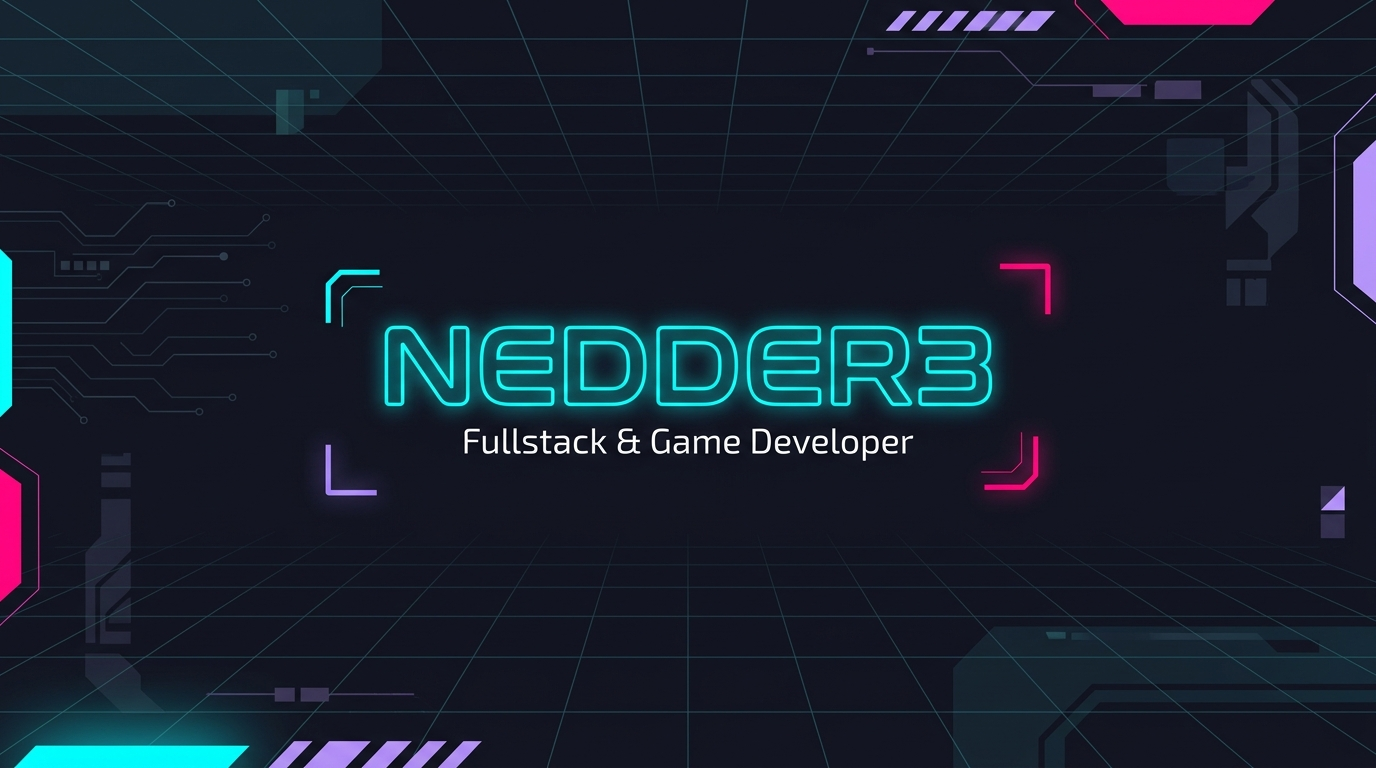
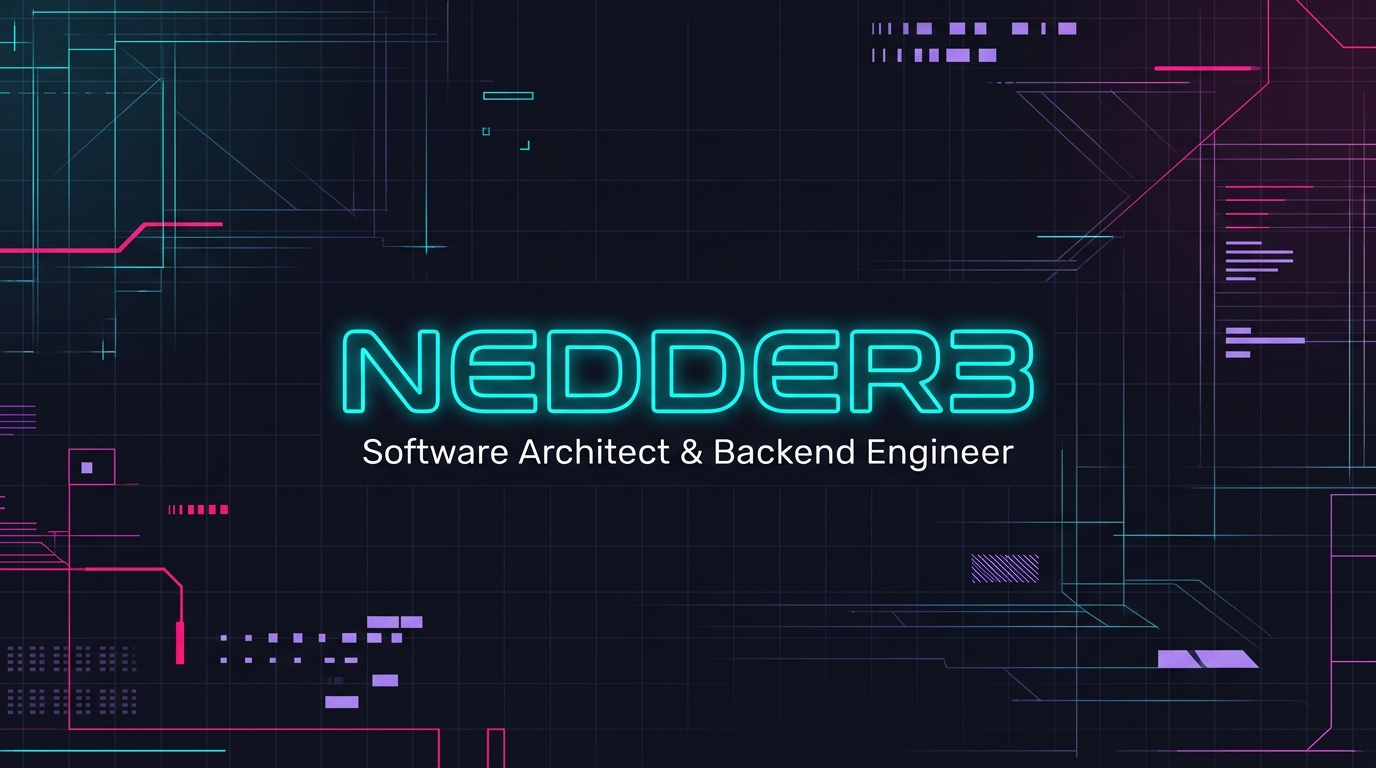
feat: re-brand profile to Software Architect & Java Expert theme

diff --git a/README.md b/README.md
@@ -3,60 +3,58 @@
   <img src="./banner.jpg" width="100%" alt="Nedder3 Header" />
 </div>
 
-<!-- Mensaje de bienvenida cyberpunk -->
+<!-- Mensaje de presentación de Arquitecto -->
 <div align="center">
-  <h2>🌌 Bienvenido a mi nexo digital en la red virtual</h2>
-  <p><i>"Traduzco lógica en experiencias interactivas, mecánicas inmersivas y código limpio."</i></p>
+  <h2>🏛 Software Architect & Backend Engineer</h2>
+  <p><i>"Don't show twenty apps. Show a few, designed impeccably."</i></p>
 </div>
 
 ---
 
-### 👤 Sobre Mí
+### 👤 Perfil Profesional
 
-Soy un desarrollador de software y diseñador de videojuegos apasionado por conectar sistemas lógicos robustos con experiencias visuales interactivas. Me especializo en arquitecturas de backend eficientes, aplicaciones móviles híbridas y el desarrollo de mecánicas de juego en 2D y 3D.
+Software Expert especializado en **Java** con experiencia como **Software Architect** y **Backend Engineer**, enfocado en el diseño y desarrollo de sistemas escalables, arquitecturas modernas y soluciones de alta calidad. Apasionado por la ingeniería de software, el diseño arquitectónico, las buenas prácticas y el aprendizaje continuo. 
 
-*   🚀 **Proyectos Actuales:** Desarrollando **Nu-sik** (Discord Rich Presence local para YouTube Music en Windows) y expandiendo aplicaciones híbridas con Expo.
-*   🧠 **Enfoque Actual:** Profundizando en microservicios, arquitecturas orientadas a eventos y optimización de bases de datos.
-*   🎮 **Desarrollo de Videojuegos:** Diseñando físicas e interfaces para títulos independientes en **Unity3D** y **Godot Engine**.
-*   💬 **Hablemos sobre:** Ingeniería de software, desarrollo fullstack, robótica/IoT y game design.
-*   ✉ **Contacto:** Escríbeme directamente a [neddev3@gmail.com](mailto:neddev3@gmail.com) para colaboraciones u oportunidades profesionales.
+Combino la construcción de software con la mentoría y la formación técnica, ayudando a desarrollar equipos y profesionales mientras creo soluciones mantenibles, robustas y orientadas al largo plazo.
 
 ---
 
-### 🛠 Stack Tecnológico
+### 🏗 Pilares de Diseño & Arquitectura
 
-Aquí se listan las tecnologías y herramientas que domino, clasificadas y con sus colores corporativos exactos:
+*   🧱 **Clean Architecture & DDD (Domain-Driven Design):** Aislamiento estricto de las reglas de negocio, desacoplando la lógica central del framework y de la infraestructura.
+*   ⚡ **Concurrencia Avanzada & Multithreading:** Optimización de flujos de ejecución asíncronos y diseño de procesos de baja latencia en entornos multihilo.
+*   🌐 **Sistemas Distribuidos y Mensajería:** Implementación de resiliencia y consistencia eventual mediante patrones como *Saga*, *Outbox* y mensajería orientada a eventos.
+*   🧩 **Patrones de Diseño y Principios SOLID:** Aplicación rigurosa de patrones estructurales, de comportamiento y creacionales para asegurar un código altamente mantenible y extensible.
 
-#### 🎨 Frontend
+---
+
+### 🛠 Stack Tecnológico Curado
+
+#### ☕ Lenguajes Principales
 <p align="left">
-  <img src="https://img.shields.io/badge/React-20232a?style=for-the-badge&logo=react&logoColor=61DAFB" alt="React" />
-  <img src="https://img.shields.io/badge/Next.js-000000?style=for-the-badge&logo=nextdotjs&logoColor=white" alt="Next.js" />
-  <img src="https://img.shields.io/badge/Angular-DD0031?style=for-the-badge&logo=angular&logoColor=white" alt="Angular" />
-  <img src="https://img.shields.io/badge/Astro-FF5D01?style=for-the-badge&logo=astro&logoColor=white" alt="Astro" />
-</p>
-
-#### ⚙ Backend & Motores de Juego
-<p align="left">
-  <img src="https://img.shields.io/badge/Node.js-339933?style=for-the-badge&logo=nodedotjs&logoColor=white" alt="Node.js" />
-  <img src="https://img.shields.io/badge/Python-3776AB?style=for-the-badge&logo=python&logoColor=white" alt="Python" />
   <img src="https://img.shields.io/badge/Java-ED8B00?style=for-the-badge&logo=openjdk&logoColor=white" alt="Java" />
-  <img src="https://img.shields.io/badge/Spring_Boot-6DB33F?style=for-the-badge&logo=springboot&logoColor=white" alt="Spring Boot" />
+  <img src="https://img.shields.io/badge/Python-3776AB?style=for-the-badge&logo=python&logoColor=white" alt="Python" />
   <img src="https://img.shields.io/badge/C%23-239120?style=for-the-badge&logo=c-sharp&logoColor=white" alt="C#" />
-  <img src="https://img.shields.io/badge/Ruby_on_Rails-CC0000?style=for-the-badge&logo=ruby-on-rails&logoColor=white" alt="Ruby on Rails" />
-  <img src="https://img.shields.io/badge/PHP-777BB4?style=for-the-badge&logo=php&logoColor=white" alt="PHP" />
-  <img src="https://img.shields.io/badge/Lazarus-0A5F9B?style=for-the-badge&logo=lazarus&logoColor=white" alt="Lazarus" />
-  <img src="https://img.shields.io/badge/Unity-000000?style=for-the-badge&logo=unity&logoColor=white" alt="Unity" />
-  <img src="https://img.shields.io/badge/Godot_Engine-478CBF?style=for-the-badge&logo=godotengine&logoColor=white" alt="Godot" />
+  <img src="https://img.shields.io/badge/TypeScript-3178C6?style=for-the-badge&logo=typescript&logoColor=white" alt="TypeScript" />
 </p>
 
-#### 💾 Bases de Datos & Cloud
+#### ⚙ Arquitectura & Backend Frameworks
+<p align="left">
+  <img src="https://img.shields.io/badge/Spring_Boot-6DB33F?style=for-the-badge&logo=springboot&logoColor=white" alt="Spring Boot" />
+  <img src="https://img.shields.io/badge/.NET_Core-512BD4?style=for-the-badge&logo=dotnet&logoColor=white" alt=".NET Core" />
+  <img src="https://img.shields.io/badge/gRPC-5391FE?style=for-the-badge&logo=grpc&logoColor=white" alt="gRPC" />
+  <img src="https://img.shields.io/badge/Node.js-339933?style=for-the-badge&logo=nodedotjs&logoColor=white" alt="Node.js" />
+</p>
+
+#### 💾 Datos & Sistemas Distribuidos
 <p align="left">
   <img src="https://img.shields.io/badge/PostgreSQL-316192?style=for-the-badge&logo=postgresql&logoColor=white" alt="PostgreSQL" />
+  <img src="https://img.shields.io/badge/Redis-DC382D?style=for-the-badge&logo=redis&logoColor=white" alt="Redis" />
+  <img src="https://img.shields.io/badge/Apache_Kafka-231F20?style=for-the-badge&logo=apachekafka&logoColor=white" alt="Apache Kafka" />
   <img src="https://img.shields.io/badge/SQLite-07405E?style=for-the-badge&logo=sqlite&logoColor=white" alt="SQLite" />
-  <img src="https://img.shields.io/badge/Firebase-FFCA28?style=for-the-badge&logo=firebase&logoColor=black" alt="Firebase" />
 </p>
 
-#### 🛠 Herramientas & DevOps
+#### 🐳 Infraestructura & DevOps
 <p align="left">
   <img src="https://img.shields.io/badge/Docker-2496ED?style=for-the-badge&logo=docker&logoColor=white" alt="Docker" />
   <img src="https://img.shields.io/badge/AWS-232F3E?style=for-the-badge&logo=amazon-aws&logoColor=white" alt="AWS" />
@@ -65,9 +63,10 @@ Aquí se listan las tecnologías y herramientas que domino, clasificadas y con s
 
 ---
 
-### 🖥 Entorno de Desarrollo (Dev Setup)
+### 💻 Entorno de Desarrollo (Dev Setup)
 
 <div align="center">
+  <img src="https://img.shields.io/badge/IDE-IntelliJ_IDEA-000000?style=flat-square&logo=intellij-idea&logoColor=white" alt="IntelliJ IDEA" />
   <img src="https://img.shields.io/badge/Editor-VS_Code-007ACC?style=flat-square&logo=visual-studio-code&logoColor=white" alt="VS Code" />
   <img src="https://img.shields.io/badge/S.O.-Windows_11-0078D4?style=flat-square&logo=windows&logoColor=white" alt="Windows" />
   <img src="https://img.shields.io/badge/Terminal-PowerShell-5391FE?style=flat-square&logo=powershell&logoColor=white" alt="PowerShell" />
@@ -75,7 +74,43 @@ Aquí se listan las tecnologías y herramientas que domino, clasificadas y con s
 
 ---
 
-### 📊 Estadísticas Dinámicas
+### 🏛 Proyectos Arquitectónicos Destacados
+
+*Menos aplicaciones de consumo, más componentes de infraestructura de software diseñados con rigurosidad matemática y lógica:*
+
+#### 🌀 [java-event-bus](https://github.com/nedder3) — Event Bus Asíncrono de Alta Concurrencia
+> **Descripción:** Un bus de eventos asíncrono en memoria diseñado para sistemas monolíticos modulares de alto rendimiento.  
+> **Detalles Técnicos:** Basado en colas concurrentes y pools de hilos personalizados. Utiliza mecanismos de bloqueo no bloqueantes (*Non-blocking algorithms*) y propagación de eventos asíncronos con baja sobrecarga de memoria.
+> *   *Tecnologías:* Java 21, Concurrency API, ExecutorService.
+
+#### 💾 [distributed-cache-engine](https://github.com/nedder3) — Motor de Caché Distribuido In-Memory
+> **Descripción:** Un componente de almacenamiento en caché clave-valor distribuido capaz de replicar datos de forma asíncrona entre múltiples nodos.  
+> **Detalles Técnicos:** Implementa estrategias de desalojo avanzadas (LRU, LFU) y consistencia eventual mediante replicación activa-activa orientada a redes internas confiables.
+> *   *Tecnologías:* Java, gRPC, TCP Sockets, ConcurrentHashMap.
+
+#### ⚙ [cqrs-core-lib](https://github.com/nedder3) — Librería de Arquitectura de Comandos y Consultas
+> **Descripción:** Framework desacoplado para la implementación del patrón CQRS (Command Query Responsibility Segregation) con soporte para Event Sourcing.  
+> **Detalles Técnicos:** Separación física de los modelos de lectura y escritura. Implementa bus de comandos síncrono/asíncrono y proyecciones de base de datos en tiempo real mediante disparadores de eventos.
+> *   *Tecnologías:* Java, Spring Core, Event Sourcing Pattern.
+
+#### 🚦 [custom-api-gateway](https://github.com/nedder3) — API Gateway y Ruteador Inverso L7
+> **Descripción:** API Gateway y ruteador inverso dinámico de capa 7 para microservicios con balanceo de carga integrado.  
+> **Detalles Técnicos:** Implementa filtros de pre y post ruteo, políticas adaptativas de limitación de tasa (*Token Bucket Rate Limiting*) y manejo de tolerancia a fallas mediante Circuit Breaker.
+> *   *Tecnologías:* Java, Spring Cloud Gateway, Redis, Resilience4j.
+
+#### 🧠 [rule-engine-core](https://github.com/nedder3) — Motor de Reglas de Negocio Dinámico
+> **Descripción:** Un intérprete dinámico de reglas condicionales complejas para desacoplar flujos de negocio cambiantes del código compilado.  
+> **Detalles Técnicos:** Permite cargar reglas escritas en DSL o JSON durante el tiempo de ejecución y evaluarlas contra objetos Java (*POJOs*) en microsegundos usando evaluación de árbol binario.
+> *   *Tecnologías:* Java, Jackson, OOP Design Patterns.
+
+#### 🔒 [auth-service-security](https://github.com/nedder3) — Servidor de Autorización Centralizado (OAuth2/OIDC)
+> **Descripción:** Sistema de autenticación y autorización seguro para arquitecturas distribuidas.  
+> **Detalles Técnicos:** Emisión y validación asíncrona de tokens JWT usando criptografía asimétrica (RSA/ECDSA), endpoints de JWKS para rotación de llaves, e integración transparente con mecanismos de MFA.
+> *   *Tecnologías:* Java, Spring Security OAuth2, PostgreSQL.
+
+---
+
+### 📊 Estadísticas de Desarrollo
 
 <div align="center">
   <table border="0">
@@ -97,33 +132,10 @@ Aquí se listan las tecnologías y herramientas que domino, clasificadas y con s
 
 ---
 
-### ⭐ Proyectos Destacados
+### 🏅 Logros & Contribuciones
 
-<div align="center">
-  <table border="0">
-    <tr>
-      <td>
-        <a href="https://github.com/nedder3/Nu-sik">
-          <img src="https://github-stats-extended.vercel.app/api/pin/?username=nedder3&repo=Nu-sik&theme=tokyonight&hide_border=true&cache_seconds=86400" alt="Nu-sik Project Card" />
-        </a>
-      </td>
-      <td>
-        <a href="https://github.com/nedder3/ahorrabot-app">
-          <img src="https://github-stats-extended.vercel.app/api/pin/?username=nedder3&repo=ahorrabot-app&theme=tokyonight&hide_border=true&cache_seconds=86400" alt="ahorrabot-app Project Card" />
-        </a>
-      </td>
-    </tr>
-  </table>
-</div>
-
----
-
-
-### 🏅 Certificaciones y Logros
-
-*   🎓 **Prácticas Profesionalizantes II (Ahorrabot-App)** — Desarrollo y despliegue exitoso de app en Expo con persistencia SQLite y asistencia por voz.
-*   🎮 **Game Jams & Proyectos Interactivos (Payne Team)** — Diseño y producción de videojuegos independientes como *Pinchomania* y *Bola8*.
-*   🏗 **Arquitectura de Software** — Especialización en el diseño de REST APIs e integraciones seguras utilizando C# y Java.
+*   👨🏫 **Mentoría y Formación:** Orientado a guiar a desarrolladores hacia el uso de buenas prácticas, Clean Code, patrones y estructuras mantenibles.
+*   📐 **Diseño de Integraciones:** Liderazgo en el modelado técnico e integración de múltiples microservicios concurrentes y APIs de terceros.
 
 ---
 
@@ -138,7 +150,6 @@ Aquí se listan las tecnologías y herramientas que domino, clasificadas y con s
   <br />
   <br />
 
-  <!-- Contador de visitas adaptado a Tokyo Night y corregido a ghpvc -->
   <img src="https://komarev.com/ghpvc/?username=nedder3&color=bb9af7&style=flat-square&label=Vistas%20de%20Perfil&v=4" alt="Perfil de nedder3" />
 
 </div>
